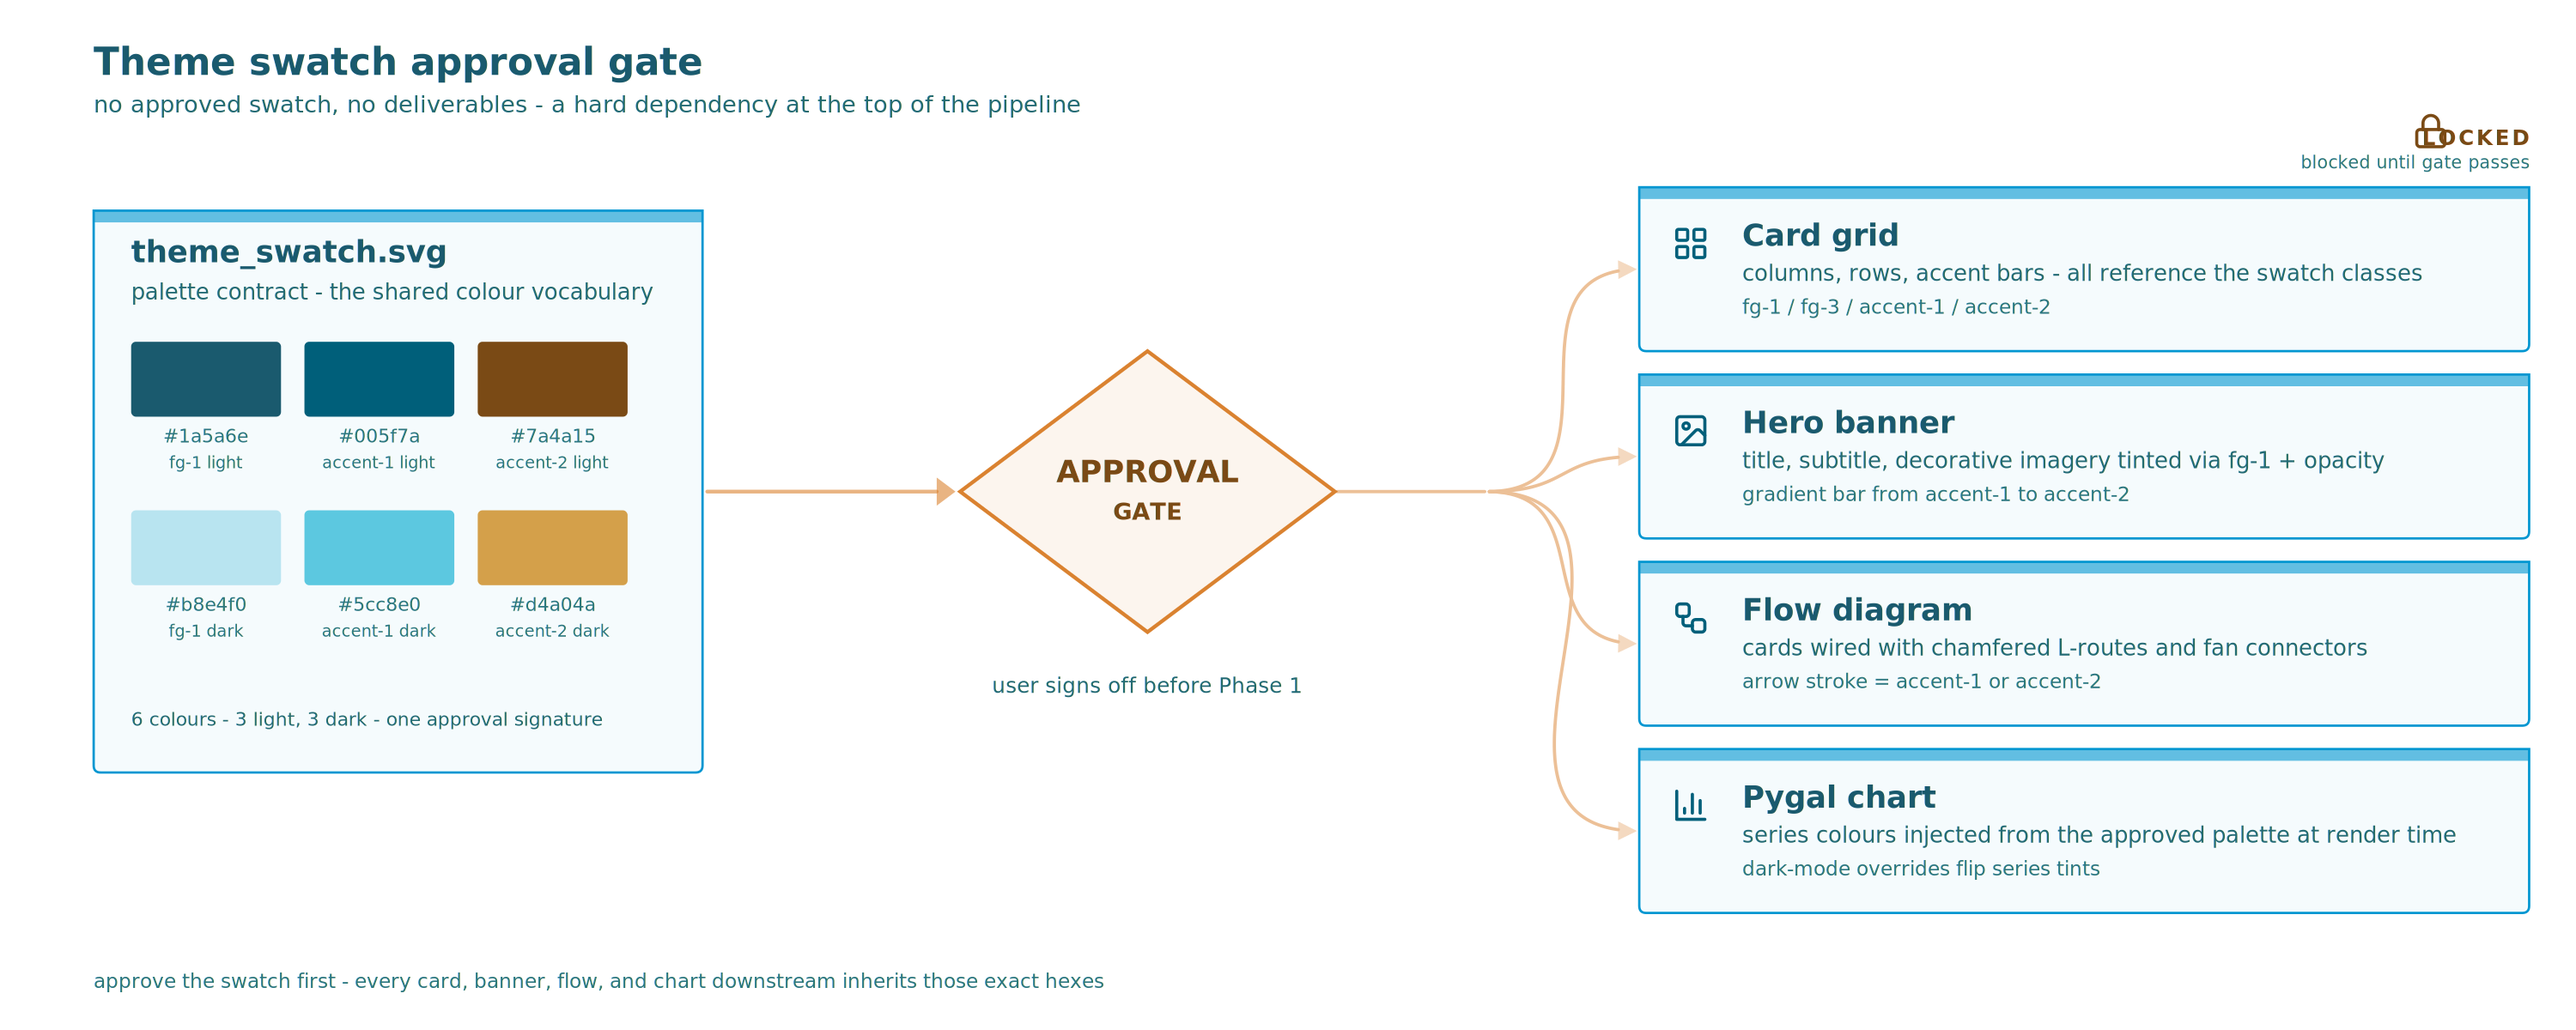
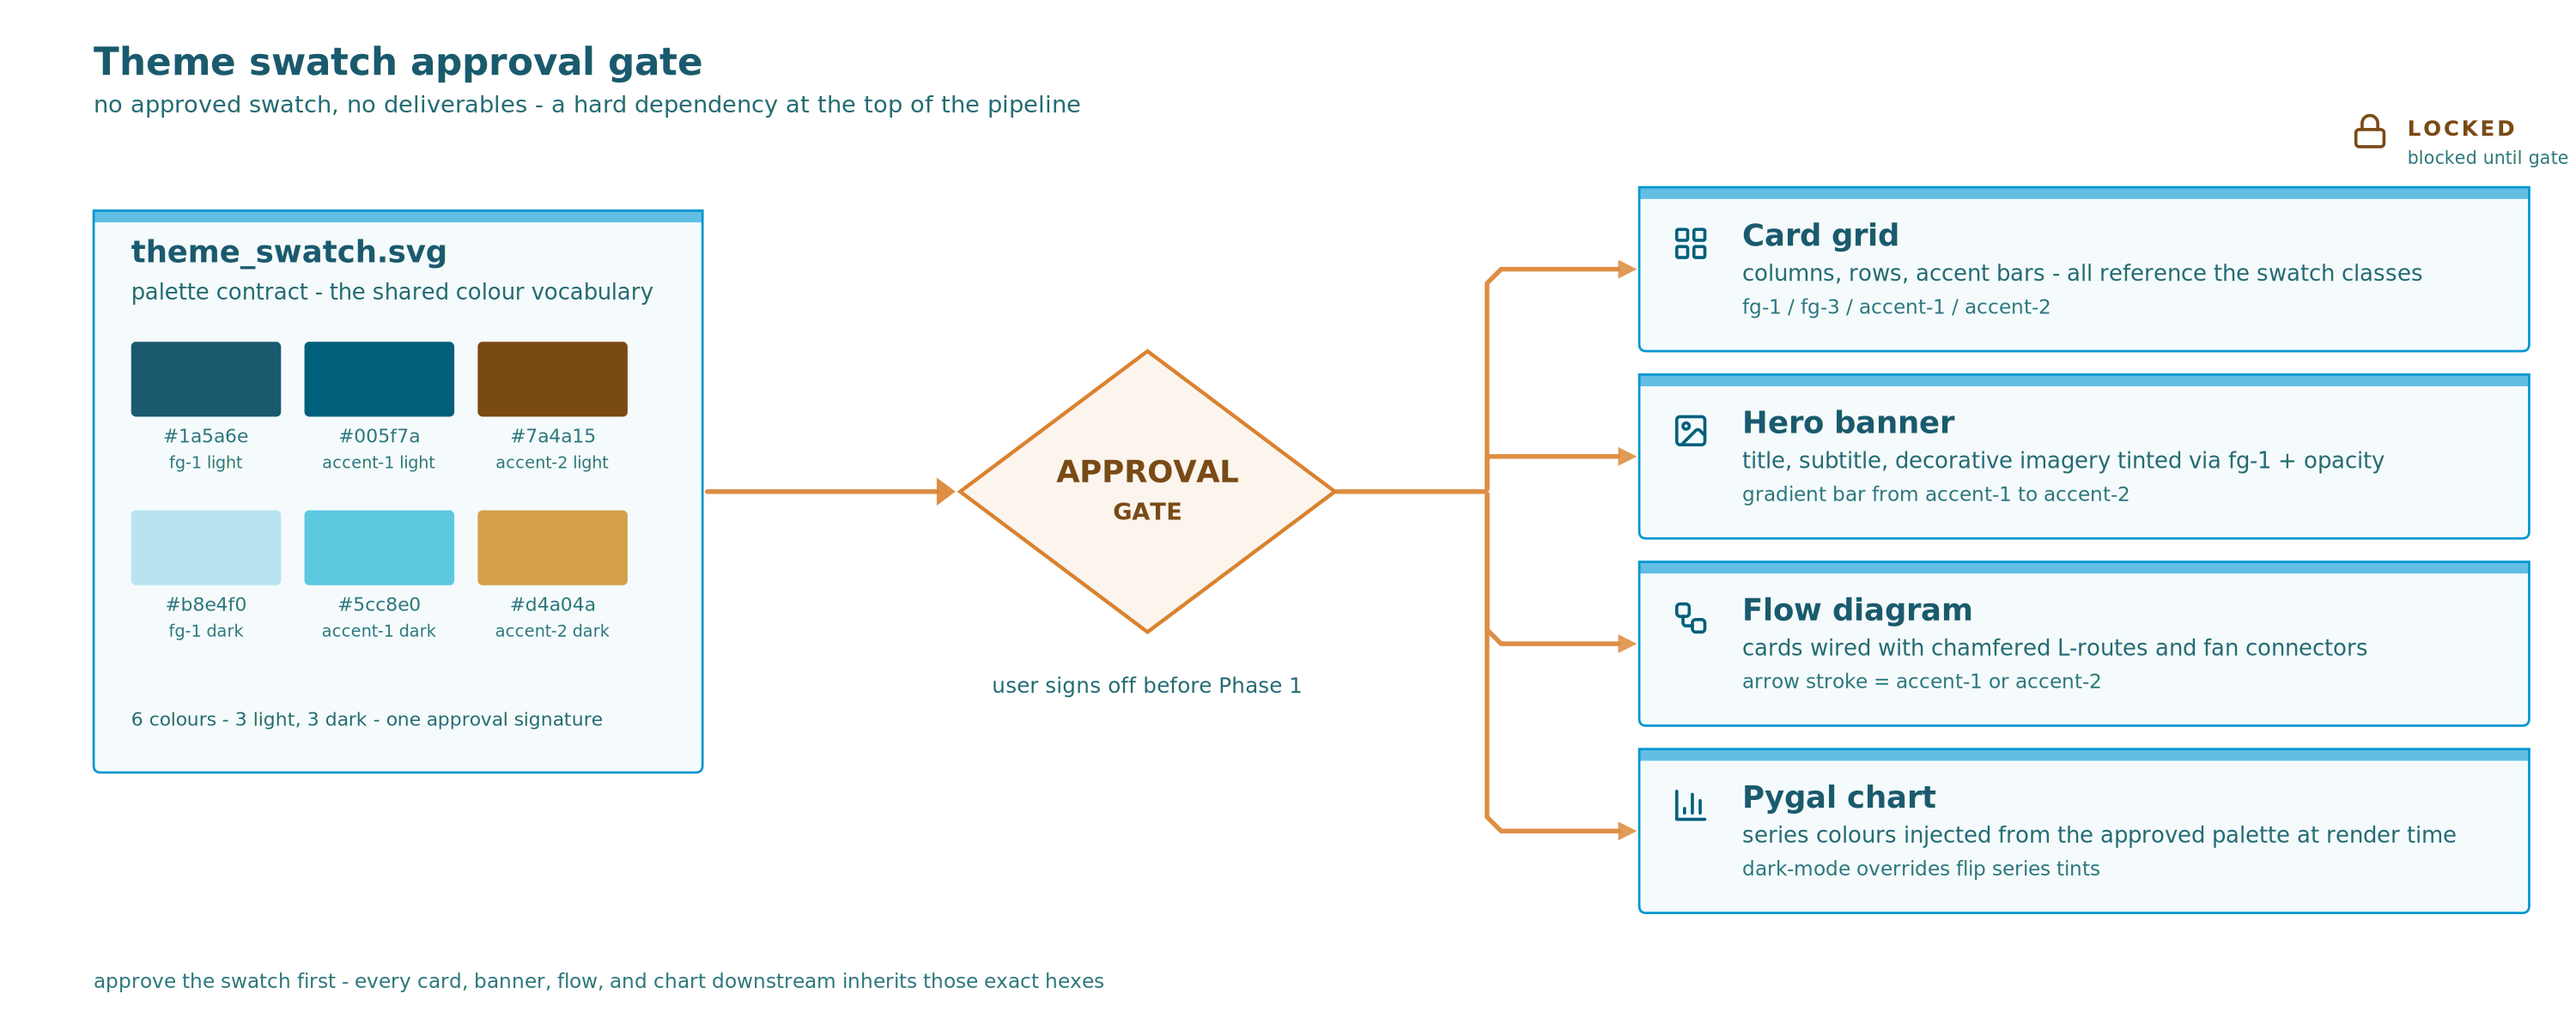
chore: release plugins v1.3.11 to marketplace
Manifold crossing/backward detection, default tension 0.75, skill
header as design-app tool reference, 07-theme-approval manifold
rework with stronger connectors. See JOURNAL.md entry 95.

PyPI: stellars-claude-code-plugins v1.0.24

diff --git a/.claude/JOURNAL.md b/.claude/JOURNAL.md
@@ -299,3 +299,11 @@ This journal tracks substantive work on documents, diagrams, and documentation c
 
 94. **Task - New primitives, draw.io shape catalogue, add-life command, article rework** (v1.0.23 PyPI, plugins v1.3.10): Added gear/pyramid/cloud/document primitives (18 built-in shapes total), draw.io stencil library indexer with on-demand download + cache, `/svg-infographics:add-life` creative enhancement command, article rewrite as "Stop Fixing Your AI's SVGs"<br>
     **Result**: Four new `gen_*` functions in `calc_primitives.py` (gear with configurable teeth, isometric pyramid with hidden-edge wire mode, cubic-bezier cloud, dog-ear document) + CLI registration + 5 tests. New `drawio_shapes.py` module (830 LOC): parses Format A (mxlibrary JSON) and Format B (stencil XML), `_mxgraph_to_svg_path` converter, `ShapeIndex` with fuzzy search/save/load, `render_shape` returning primitives-compatible contract, `render_catalogue` for visual SVG grids, `_resolve_source` downloads URLs to `~/.cache/svg-infographics/drawio-stencils/` on first use. CLI: `shapes index/search/catalogue/render`. New `add-life` command with 6 enhancement dimensions (colour/shapes/icons/embroidery/abstract/glow) x 4 levels (low/medium/high/absurd) + mandatory `<!-- add-life -->` documentation comment. Article reworked: "design application for agents" framing, use-case-driven sections, Nova Canvas hero image, 19 images including embroidery glyph gallery. Skills updated with 18-shape inventory + draw.io catalogue + add-life section. 307 tests green.
+
+97. **Task - Drawio shapes download-on-demand rewrite**: Rewrote `drawio_shapes.py` to download stencil libraries on demand instead of bundling XML files with the pip package<br>
+    **Result**: Rewrote `stellars_claude_code_plugins/svg_tools/drawio_shapes.py` from a directory-scanning model to a download-on-demand cache model. Key changes: removed `build_index()` (scanned directories), `ShapeIndex.save()`/`.load()` (explicit file I/O), and the `_INDEX_VERSION = 1` format. Replaced with `index_source(source)` accepting both URLs and local paths - URLs are downloaded via `urllib.request.urlretrieve` to `~/.cache/svg-infographics/drawio-stencils/`, local paths are parsed directly. `_load_index()`/`_save_index()` read/write the cache-resident `_index.json` (version 2) which now includes a `sources` dict tracking original URLs for each library, enabling `--refresh` to re-download all previously indexed libraries. `_resolve_source()` dispatches URL vs local path. `_no_index_hint()` prints a helpful message when the cache is empty, listing the default URL and other available libraries. Fixed `_mxgraph_to_svg_path` to use absolute coordinates instead of the previous normalised 0..100 scaling which produced incorrect paths for real draw.io stencils. Category detection now uses the `<shapes name="...">` attribute when present (real libraries use `mxgraph.basic`, `mxGraph.flowchart` etc), falling back to filename stem. CLI updated: `--source` and `--output`/`--index` flags replaced with cache-centric `--source` (URL or path) and `--refresh`, `--json` on render, `--output` optional on catalogue (prints to stdout by default). All 16 existing drawio tests updated for the new API (monkeypatched CACHE_DIR/INDEX_FILE for isolation) plus 3 new tests (empty cache, reindex deduplication, JSON structure v2). 297 tests green, ruff clean.
+
+98. **Task - Mid-tier embroidery glyphs SVG**: Created `19-embroidery-glyphs-midtier.svg` - 32 intricate sci-fi/cyberpunk glyphs in 8x4 grid for mid-tier add-life embroidery<br>
+    **Result**: Created `docs/medium/images_article_02/19-embroidery-glyphs-midtier.svg` (1000x560 viewBox, 66KB) with 32 multi-layered glyphs significantly more complex than the basic tier (18-embroidery-glyphs.svg). Four domain rows: brain/neural/AI (neural-core, synapse-burst, deep-stack, embedding-field, attention-eye, transformer, neural-mesh, thought-bubble), cyberpunk HUD (hud-bracket, scan-line, data-stream, target-lock, hex-shield, power-bar, circuit-corner, holo-frame), sci-fi abstract (warp-gate, quantum-bit, plasma-arc, gravity-well, energy-flow, dimension-fold, beacon, phase-shift), decorative flourishes (tech-vine, data-rain, fractal-branch, wave-interference, crystal-lattice, pulse-ring, nano-pattern, cyber-mandala). Each glyph uses 3-8 SVG elements with multiple stroke weights (0.5-1.8), 14 teal and 6 ochre stroke/fill classes, two glow filters (`glow-cyan` and `glow-warm` via feGaussianBlur), 6 gradient defs (3 linear + 2 radial + 1 horizontal), opacity layering (0.04-0.8), and 2-3 colours per glyph. Grid: 110x116px cells, 12px gaps, 18px symmetric margins. Full `@media (prefers-color-scheme: dark)` with all 33 classes overridden. Validation: overlap checker 134 all contained (glyph elements inside plate groups), 0 sibling overlaps. CSS checker: 16 warnings all checker limitation (cannot detect dark mode inside `<style>` element, same as basic tier). PNG rendered at 3000x1680 via cairosvg. Playwright visual verification confirmed all 32 glyphs visible and properly rendered.
+
+95. **Task - Manifold crossing detection, skill header rewrite, embroidery galleries, article polish** (v1.0.24 PyPI, plugins v1.3.11): Manifold default tension raised 0.5->0.75, added pairwise strand crossing detection via `shapely.crosses()` and backward-curve detection via dot-product against spine flow, both emitting fix-instruction warnings. Skill header rewritten as design-application tool reference with two tables (6 design tools + 6 quality checkers) and "agent is designer, tools are application" framing. Principles condensed 14->10 with "tool first" as #1. Added generic text-after-visuals placement rule. Removed case-specific padlock note. 07-theme-approval.svg reworked with manifold spline fan-out (agent-delegated). Two embroidery galleries shipped: 18-basic (32 stroke glyphs) and 19-midtier (32 intricate sci-fi/cyberpunk with glow filters). Article cover regenerated via Nova Canvas. 307 tests green.
